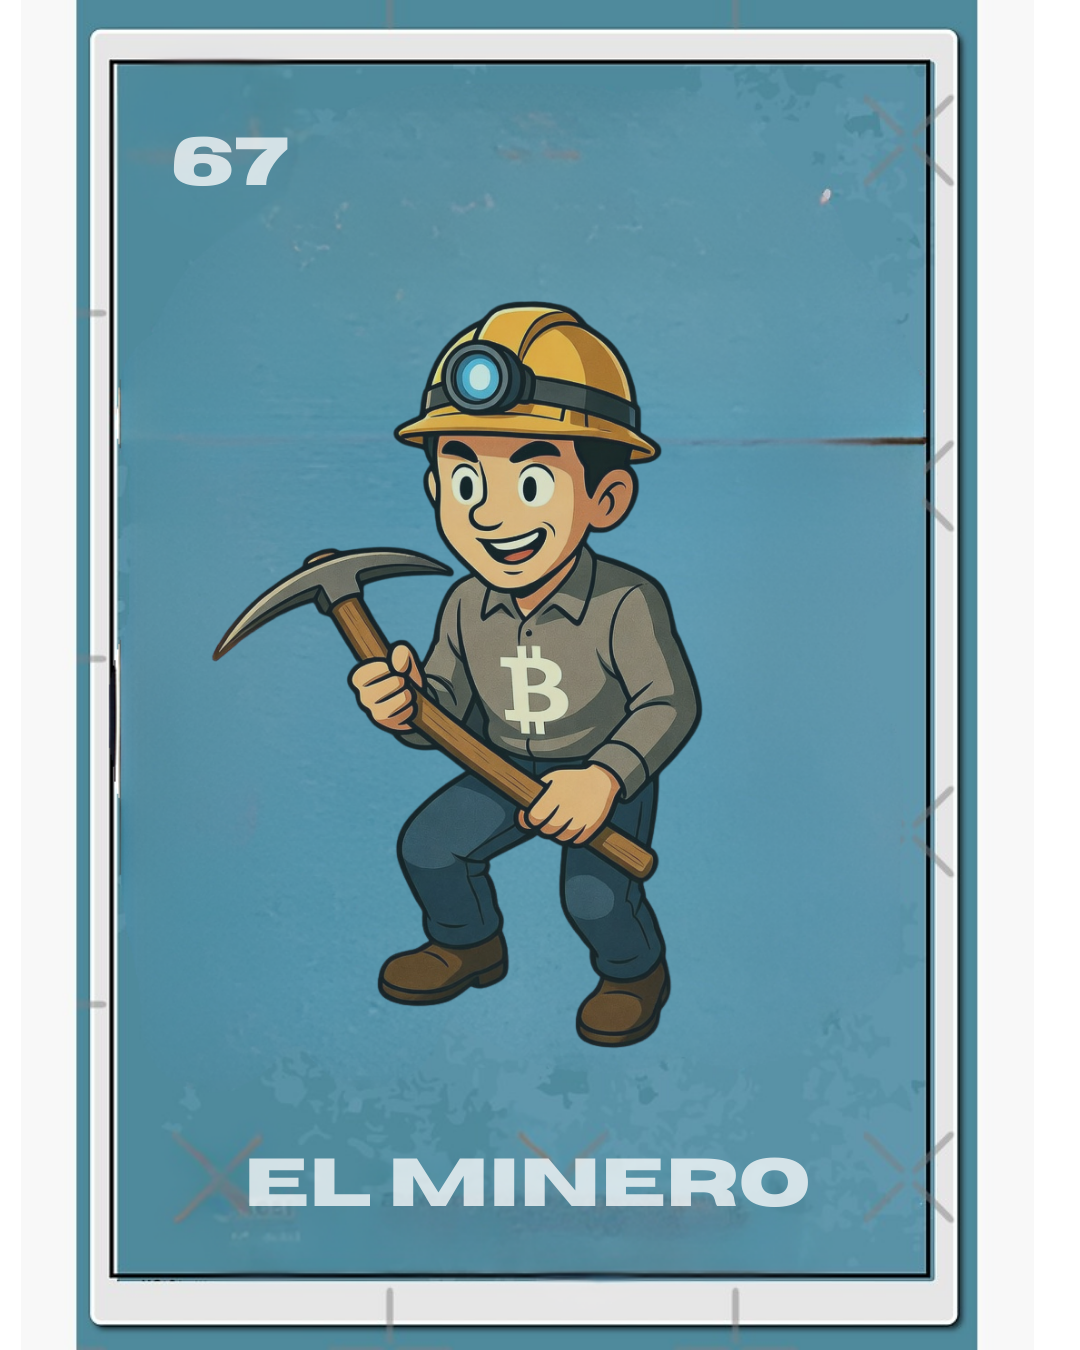
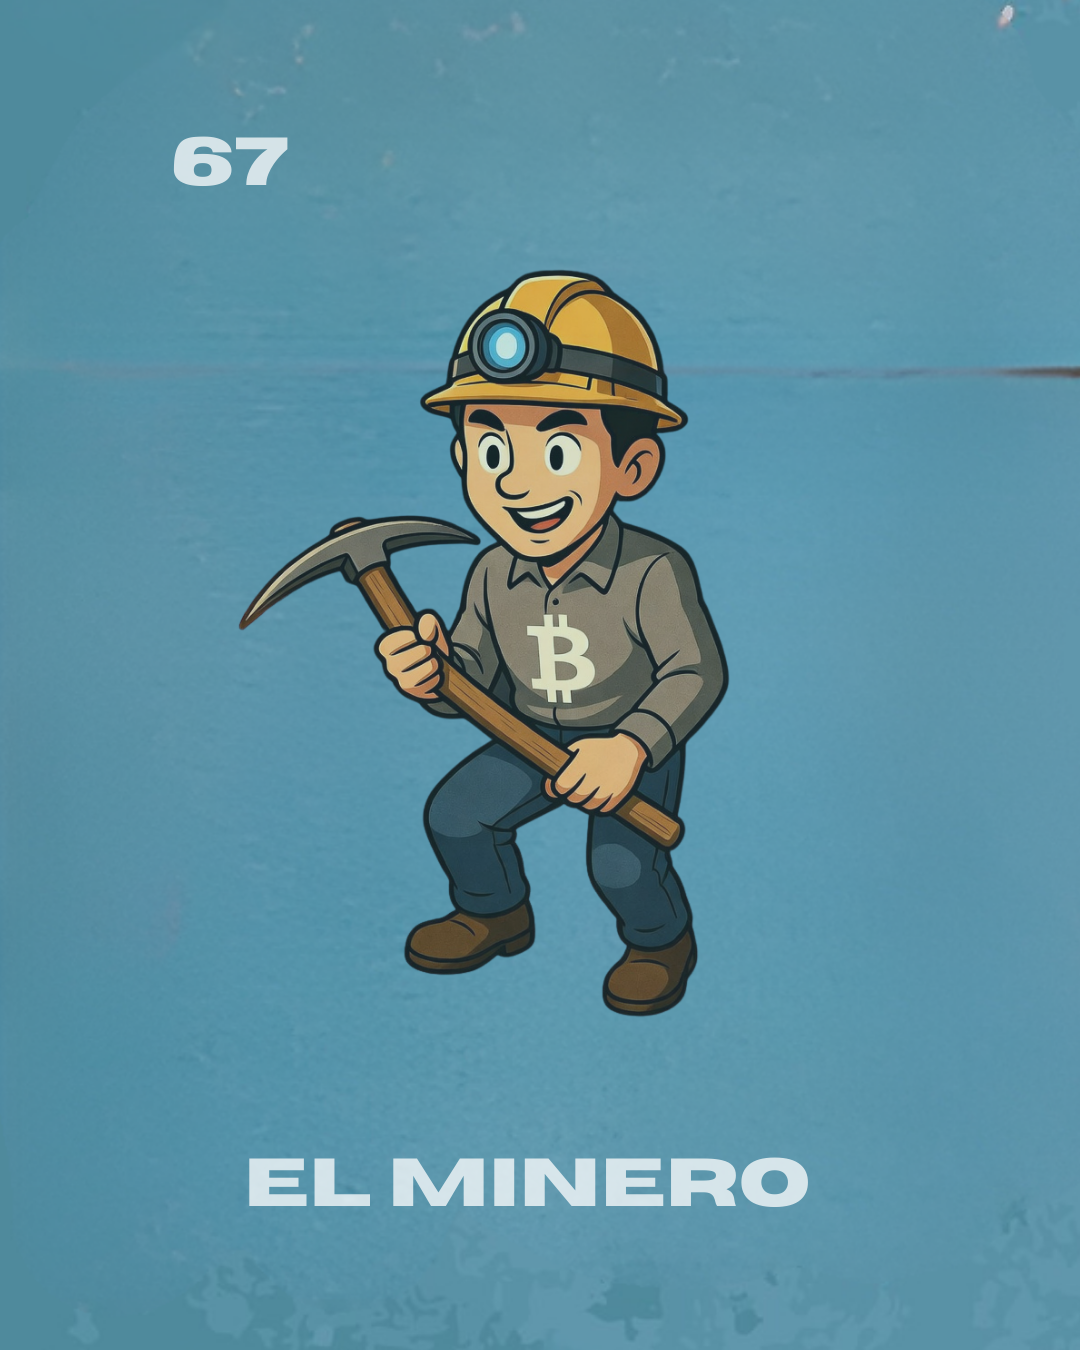
Your message here

diff --git a/App.jsx b/App.jsx
@@ -83,7 +83,7 @@ const CARD_DECK = [
     leccion: "Es el acto de mandar bitcoin de una 'cuenta' a otra; parecido a hacer una transferencia bancaria, pero usando direcciones de Bitcoin en lugar de cuentas de banco."
   },
   {
-    id: 6, name: "La Minería de Bitcoin", icon: "⛏",
+    id: 6, name: "El Minero", icon: "⛏",
     image: "images/06.png", audio: "audio/06.mp3",
     riddle: "Con sudor digital y poder de cómputo,\nbusca el número mágico, ¡nunca está difunto!\n¡La Minería!",
     question: "¿Qué hacen los mineros de Bitcoin?",
@@ -740,11 +740,18 @@ function CardVisual({ card, sizeClass }) {
         src={card.image}
         alt={card.name}
         className={sizeClass || 'card-img-sm'}
+        style={{ display: 'block' }}
         onError={() => setImgError(true)}
       />
     );
   }
-  return <span className={sizeClass === 'card-img-caller' ? 'text-5xl sm:text-6xl block' : 'text-2xl sm:text-3xl md:text-4xl'}>{card.icon}</span>;
+  const isCaller = sizeClass === 'card-img-caller';
+  return (
+    <div className={`flex items-center justify-center ${isCaller ? 'w-[140px] h-[180px] mx-auto rounded-lg' : 'w-[90%] rounded'}`}
+         style={{ aspectRatio: isCaller ? undefined : '3/4', background: 'linear-gradient(135deg, #4A90A4 0%, #5BA0B4 100%)', border: isCaller ? '3px solid #8B4513' : '2px solid #8B4513', boxShadow: isCaller ? '0 4px 12px rgba(0,0,0,0.3)' : 'none' }}>
+      <span className={isCaller ? 'text-5xl sm:text-6xl' : 'text-2xl sm:text-3xl'}>{card.icon}</span>
+    </div>
+  );
 }
 
 // ─── CONFETTI COMPONENT ──────────────────────────────────────────────────────
